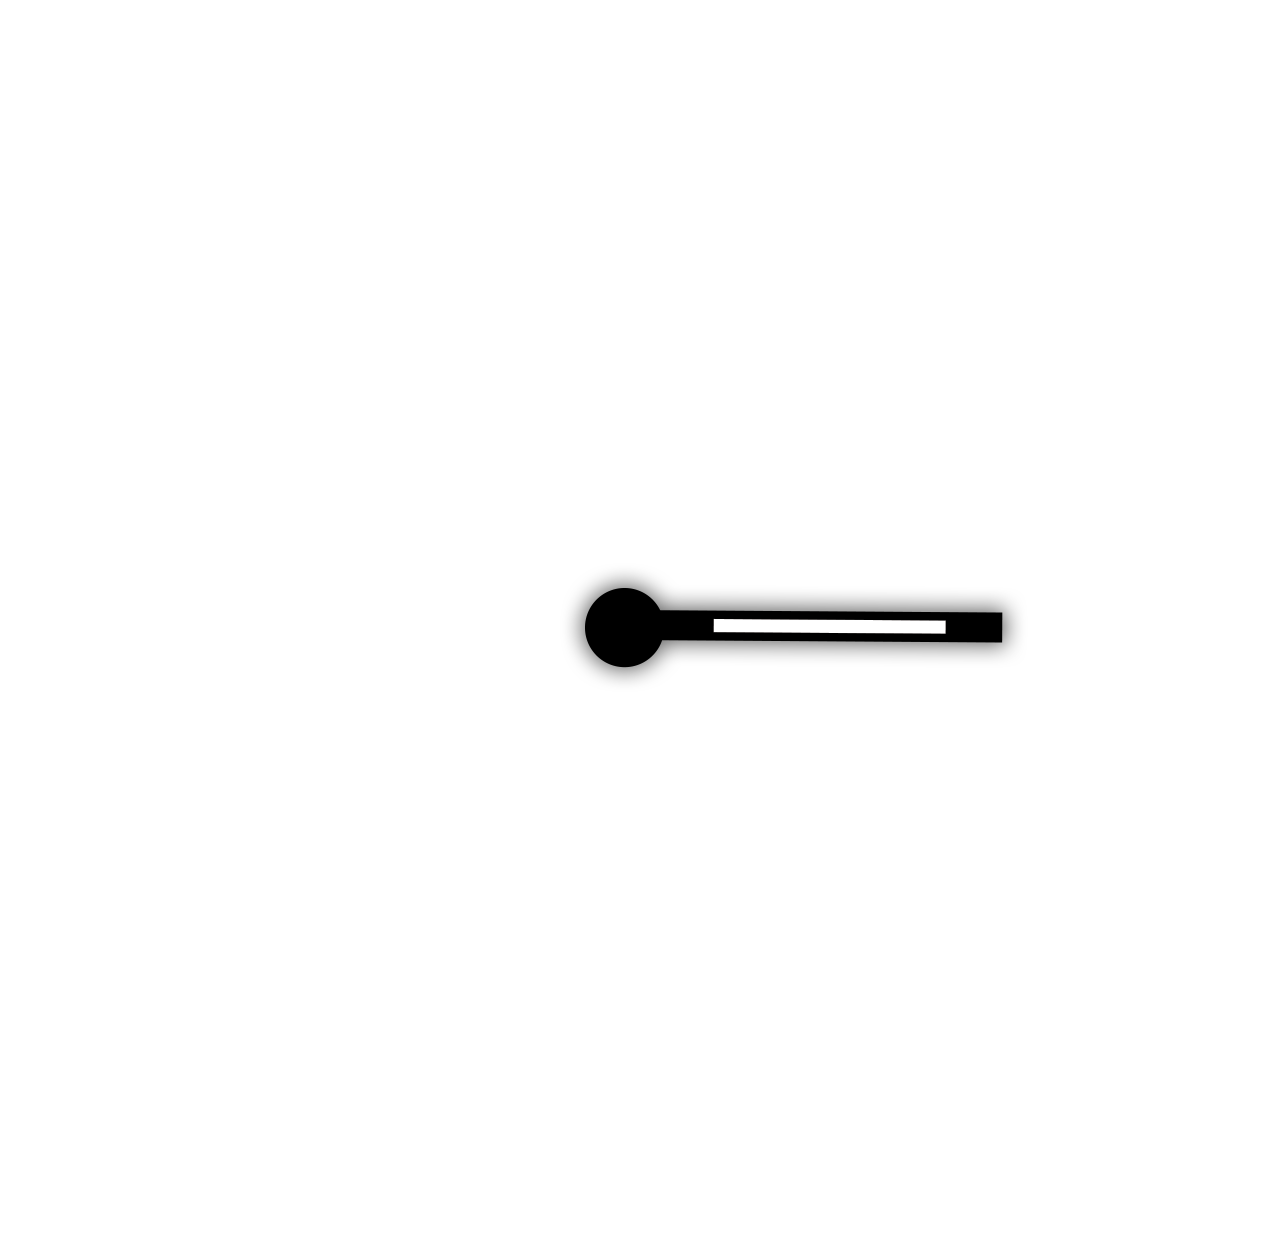
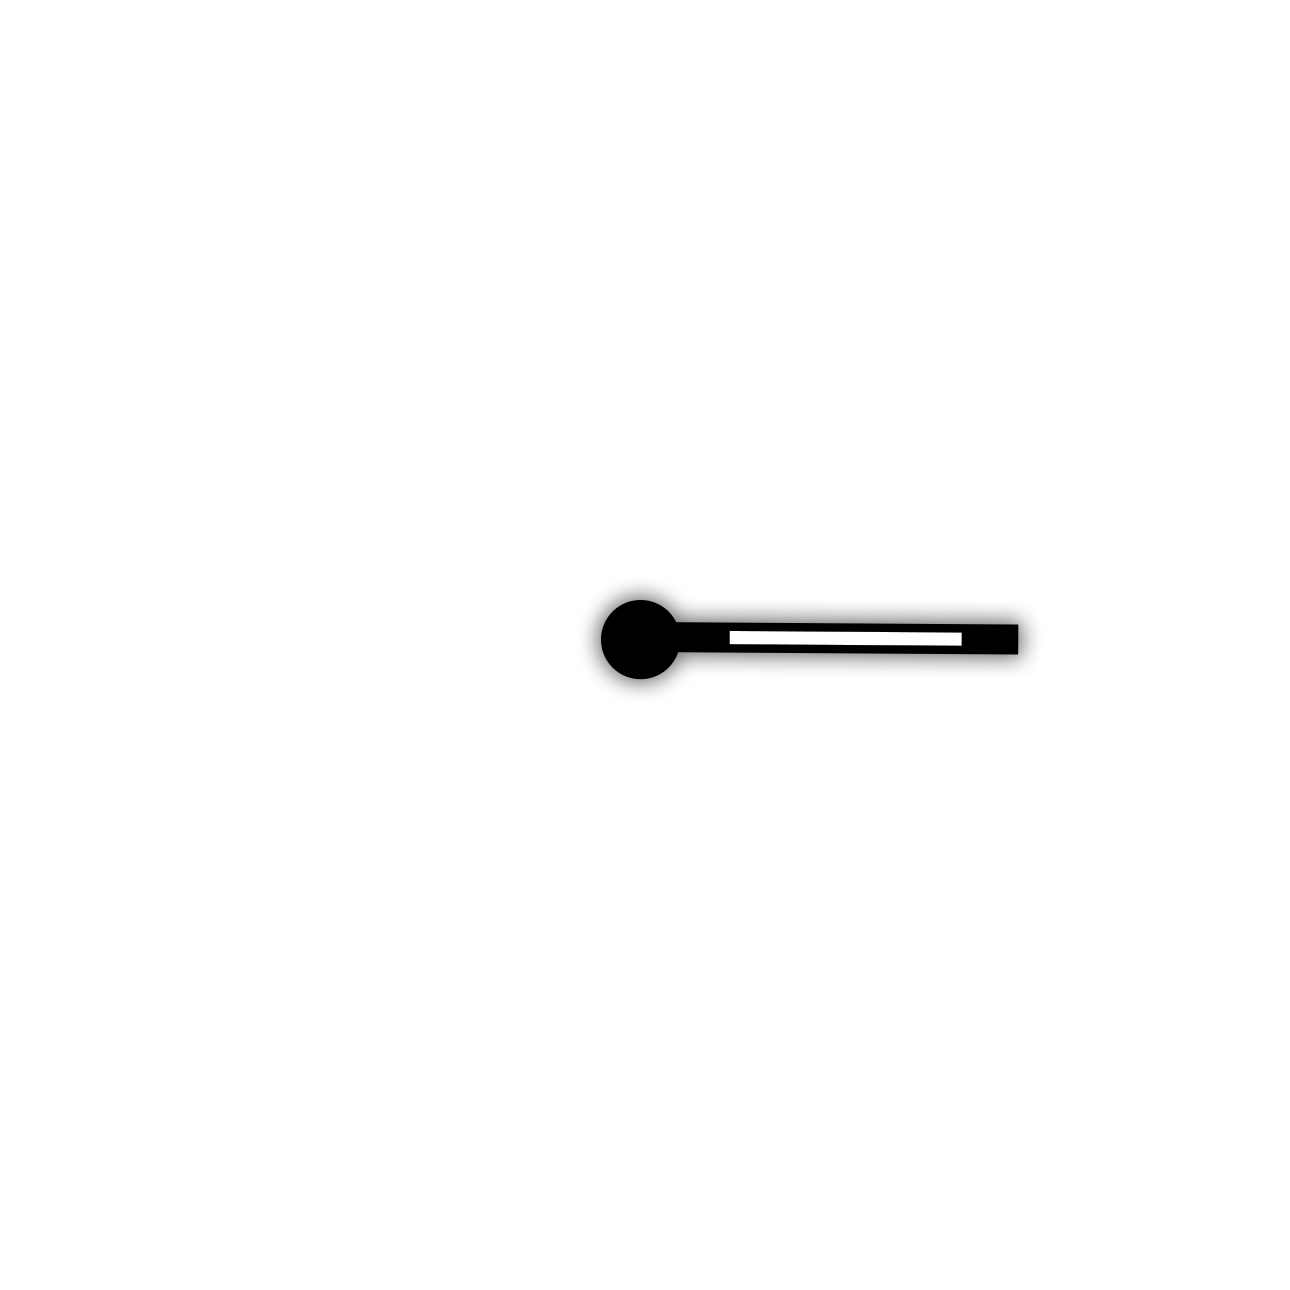
Date is working

Changed region(s): [[0.4292, 0.4351, 0.7972, 0.5594]]

diff --git a/Relogio/animation Watch.js b/Relogio/animation Watch.js
@@ -1,18 +1,109 @@
-//Function that controls the watch's hands
+function changeText(id, txt){
+  document.getElementById(id).innerHTML = txt;
+}
 
+//Function that controls the watch's hands and info
 function clock() {
     var date  = new Date;
     var hours = (30 * ((date.getHours() % 12) + date.getMinutes() / 60) - 90);
-    var min   = (6 * date.getMinutes() - 90);
-    var sec   = (6 * date.getSeconds() - 90);
+    var min   = ( 6 * date.getMinutes() - 90);
+    var sec   = ( 6 * date.getSeconds() - 90);
 
     rotateHand('Hour_Hand', hours);
-    rotateHand('Min_Hand', min);
-    rotateHand('Sec_Hand', sec);
+    rotateHand( 'Min_Hand',   min);
+    rotateHand( 'Sec_Hand',   sec);
 
-    setTimeout(clock, 1000);
+    if(document.getElementById('Week_Day').innerHTML == "wd" ||
+        (hours == 270 && min == 270 && sec == 270)){
+      dateUpdate(date);
+    }
+
+    setTimeout( clock, 1000);
+}
+
+function dateUpdate(date) {
+  weekDay('Week_Day', date.getDay());
+
+  changeText('Day', date.getDate() + " ");
+
+  month('Month', date.getMonth());
 }
 
 function rotateHand(id, angle) {
     document.getElementById(id).style.transform = 'rotate(' + angle + 'deg)';
+}
+
+function weekDay(id, wd) {
+    var day;
+
+    switch(wd){
+      case 0:
+        day = "Dom";
+      break;
+      case 1:
+        day = "2a";
+      break;
+      case 2:
+        day = "3a";
+      break;
+      case 3:
+        day = "4a";
+      break;
+      case 4:
+        day = "5a";
+      break;
+      case 5:
+        day = "6a";
+      break;
+      case 6:
+        day = "Sab";
+      break;
+    }
+
+    changeText(id, day + ",");
+}
+
+function month(id, m) {
+    var month;
+
+    switch(m){
+      case 0:
+        month = "Jan";
+      break;
+      case 1:
+        month = "Fev";
+      break;
+      case 2:
+        month = "Mar";
+      break;
+      case 3:
+        month = "Abr";
+      break;
+      case 4:
+        month = "Mai";
+      break;
+      case 5:
+        month = "Jun";
+      break;
+      case 6:
+        month = "Jul";
+      break;
+      case 7:
+        month = "Ago";
+      break;
+      case 8:
+        month = "Set";
+      break;
+      case 9:
+        month = "Out";
+      break;
+      case 10:
+        month = "Nov";
+      break;
+      case 11:
+        month = "Dez";
+      break;
+    }
+
+    changeText(id, month);
 }

diff --git a/Relogio/relogio.html b/Relogio/relogio.html
@@ -10,11 +10,11 @@
         <a href="../index.html"><img id="Back_Arrow" src="../Images/Arrow.jpg"></a>
 
         <div id="Clock">
-            <img id="Watch" src="../Images/Watch Parts/watch.png">
+            <img id="Watch" src="../Images/Watch Parts/watch_.png">
+            <img id="Button" src="../Images/Watch Parts/watch_button.png">
             <div id="Date">
-                <span id="Sem">sem</span>
+                <span id="Week_Day">wd</span>
                 <span id="Day">00</span>
-                <span>/</span>
                 <span id="Month">00</span>
             </div>
             <div id="Clock_Face">
@@ -22,11 +22,11 @@
                 <div id="Hands">
                     <img id="Hour_Hand" class="hand" src="../Images/Watch Parts/watchhours.png">
                     <img id="Min_Hand"  class="hand" src="../Images/Watch Parts/watchminutes.png">
-                    <img id="Sec_Hand"  class="hand" src="../Images/Watch Parts/watchseconds.png"> 
+                    <img id="Sec_Hand"  class="hand" src="../Images/Watch Parts/watchseconds.png">
                 </div>
             </div>
 
-            <div id="Menu_Botton"></div>
+            <div id="Menu_Button"></div>
         </div>
     </body>
 </html>

diff --git a/Relogio/style Watch.css b/Relogio/style Watch.css
@@ -7,8 +7,8 @@
 }
 
 #Clock {
-    width: 220px;
-    height: 220px;
+    width:  1.5in;
+    height: 1.5in;
     margin: auto;
     position: relative;
 }
@@ -18,33 +18,38 @@
     margin: auto;
 }
 
+#Button {
+  position: absolute;
+  z-index: 1;
+  top: 0%;
+  left: 0%;
+}
+
 #Clock_Face {
-    width: 202px;
-    height: 202px;
     border-radius: 50%;
     position: absolute;
-    top: 4%;
-    left: 4%;
+    top: 0%;
+    left: 0%;
 }
 
 #Date {
     position: absolute;
     top: 70%;
-    left: 32%;
+    left: 35%;
     z-index: 2;
+    font-family: 'Open Sans', sans-serif;
+    font-size: 12px;
 }
 
 .hand {
-    width: 202px;
-    height: 202px;
     border-radius: 50%;
     position: absolute;
-    top: -0.5%;
-    left: -0.5%;
+    top: 0%;
+    left: 0%;
     z-index: 1;
 }
 
 img {
-    max-width: 100%;
-    max-height: 100%;
+    max-width: 1.5in;
+    max-height: 1.5in;
 }
